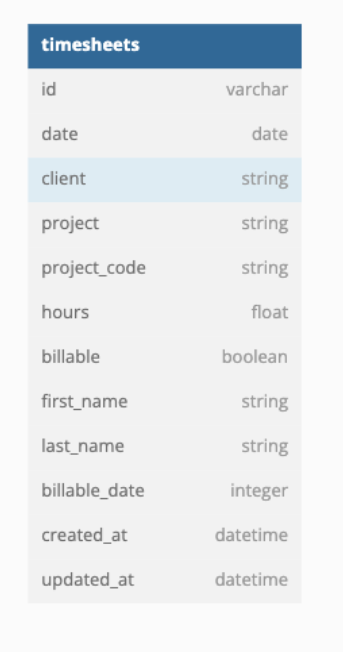
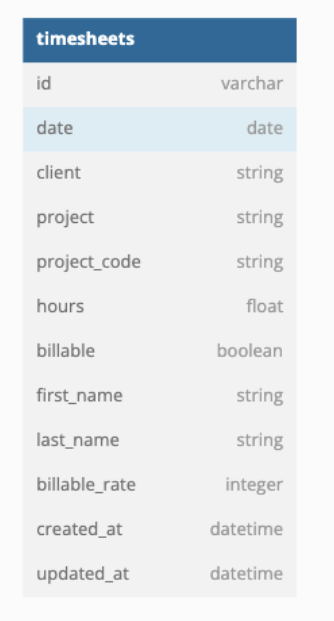
rename column

diff --git a/db/schema.rb b/db/schema.rb
@@ -10,7 +10,7 @@
 #
 # It's strongly recommended that you check this file into your version control system.
 
-ActiveRecord::Schema.define(version: 2023_01_20_175818) do
+ActiveRecord::Schema.define(version: 2023_01_20_182219) do
 
   # These are extensions that must be enabled in order to support this database
   enable_extension "plpgsql"
@@ -24,7 +24,7 @@ ActiveRecord::Schema.define(version: 2023_01_20_175818) do
     t.boolean "billable"
     t.string "first_name"
     t.string "last_name"
-    t.integer "billable_date"
+    t.integer "billable_rate"
     t.datetime "created_at", null: false
     t.datetime "updated_at", null: false
   end

diff --git a/db/migrate/20230120182219_rename_column.rb b/db/migrate/20230120182219_rename_column.rb
@@ -1,0 +1,5 @@
+class RenameColumn < ActiveRecord::Migration[5.2]
+  def change
+    rename_column :timesheets, :billable_date, :billable_rate
+  end
+end
